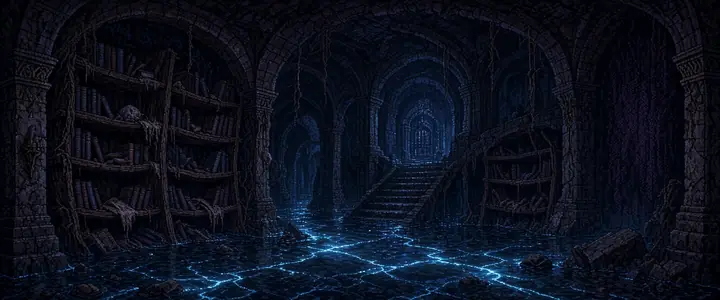
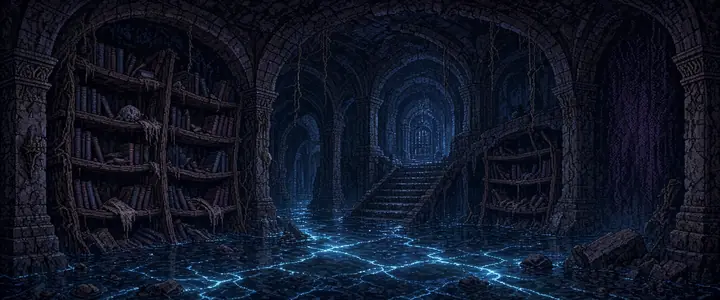
art: Tier 1 complete: Mistwood, Voidscar, Highlands, Glowlands, Silverwood Before, Steppe, Veil, Threshold (Grok Imagine)
17 more backdrops in the pixel style; Corridor and Archives lifted for darkness.
docs/ART.md: Silverwood Before lock variant, brightness rule, log rows.

Claude-Session: https://claude.ai/code/session_01G1ieR1Ws58B4uBMQBCqvG7

diff --git a/docs/ART.md b/docs/ART.md
@@ -89,6 +89,10 @@ the region light line for an interior one — *"Enclosed underground, deep <regi
 Also name crystals as "a faceted crystal monolith": "crystal heart" came back as a literal ♥ shape. (Learned on the Silverwood
 interiors, round q, 2026-10-25.)
 
+**Silverwood Before** uses the style lock with "stately and gothic" in place of "grim and gothic", so the whole, living city
+reads warmer than its ruined twin. **Very dark picks** are lifted on conversion: mean luminance under 15 → gamma 1.25, 15–22 →
+gamma 1.15 (logged per image), so they survive the game's edge darkening.
+
 ---
 
 ## 5. The shot list (77 prompts, in tiers)
@@ -295,8 +299,25 @@ Conversion note: Grok's pixel art is ~3 screen px per art pixel at 2128 wide, so
 | `loc_still_shore` | `scenes/loc_still_shore.webp` (+`@sm`) | p / D2 | 0 | Pixel lock. Midtones lifted (gamma 1.25). Faint far-shore spires (not in brief) kept: dim, read as distance. |
 | `title` | `title.webp` (+`@sm`) | p / T1 | 0 | Arch framing a violet rift, road leading in. |
 | `loc_crumbling_archway` | `scenes/loc_crumbling_archway.webp` (+`@sm`) | p / A1 | 0 | Keystone of carved faces, crystal trees both sides. |
-| `loc_darkened_corridor` | `scenes/loc_darkened_corridor.webp` (+`@sm`) | q / B4 | 0 | Interior reroll: round p painted sky into it. Fungal glow on the vaults. |
+| `loc_darkened_corridor` | `scenes/loc_darkened_corridor.webp` (+`@sm`) | q / B4 | 0 | Interior reroll: round p painted sky into it. Fungal glow on the vaults. Gamma 1.15. |
 | `loc_shattered_library` | `scenes/loc_shattered_library.webp` (+`@sm`) | p / C4 | 0 | Light shafts through the broken glass roof. |
 | `loc_silverwood_plaza` | `scenes/loc_silverwood_plaza.webp` (+`@sm`) | p / D3 | 0 | Misting fountains in a ring of colonnades. |
-| `loc_sunken_archives` | `scenes/loc_sunken_archives.webp` (+`@sm`) | q / E1 | 0 | Interior reroll. Stair into ley-lit water, soaked shelves. |
+| `loc_sunken_archives` | `scenes/loc_sunken_archives.webp` (+`@sm`) | q / E1 | 0 | Interior reroll. Stair into ley-lit water, soaked shelves. Gamma 1.15. |
 | `loc_heartstone_depths` | `scenes/loc_heartstone_depths.webp` (+`@sm`) | q / F1 | 0 | Interior reroll; round p drew a ♥. Crystal monolith on a dais, nine plinths. Base for the three state variants. |
+| `loc_mistwood_path` | `scenes/loc_mistwood_path.webp` (+`@sm`) | p / A4 | 0 | Ember-veined bark, path winding into fog. |
+| `loc_ironclad_camp` | `scenes/loc_ironclad_camp.webp` (+`@sm`) | p / B1 | 0 | Tents inside a stake barricade, forge glow, path through the gap. |
+| `loc_barren_peaks` | `scenes/loc_barren_peaks.webp` (+`@sm`) | p / C3 | 0 | Path zigzagging up the crags. Small ember-lit caves (accent) on the right. |
+| `loc_chasm_of_whispers` | `scenes/loc_chasm_of_whispers.webp` (+`@sm`) | p / D1 | 0 | Rope bridge over violet light rising from the rift. |
+| `loc_aetherium_spires` | `scenes/loc_aetherium_spires.webp` (+`@sm`) | p / E1 | 0 | Tallest spire centred, white light-trails across the basin. |
+| `loc_veridian_glowlands` | `scenes/loc_veridian_glowlands.webp` (+`@sm`) | p / F2 | 0 | Stone causeway through glowing fungi and swamp. |
+| `loc_chronos_nexus` | `scenes/loc_chronos_nexus.webp` (+`@sm`) | p / G3 | 0 | Shattered dome, cracked floor, sealed door on the right (east). Gamma 1.15. |
+| `loc_temporal_breach_apex` | `scenes/loc_temporal_breach_apex.webp` (+`@sm`) | p / H2 | 0 | Central wound of green light tearing the sky. |
+| `loc_silver_gate` | `scenes/loc_silver_gate.webp` (+`@sm`) | p / J1 | 0 | Twin of the Crumbling Archway. Chosen because its keystone has exactly nine faces (J2/J3 had 7–8); arch is squarer than the ruin's. |
+| `loc_grand_library` | `scenes/loc_grand_library.webp` (+`@sm`) | p / K2 | 0 | Twin of the Shattered Library: shelves, ladders, glass vault opening on the city. |
+| `loc_plaza_of_bells` | `scenes/loc_plaza_of_bells.webp` (+`@sm`) | p / L3 | 0 | Twin of Silverwood Plaza. Nine bells counted; fountain ring and colonnades. |
+| `loc_conflux_chamber` | `scenes/loc_conflux_chamber.webp` (+`@sm`) | p / M1 | 0 | Twin of the Heartstone Depths: same monolith-on-dais-with-plinths composition, golden. |
+| `loc_hearthring` | `scenes/loc_hearthring.webp` (+`@sm`) | p / N1 | 0 | Standing stones round a central fire, hide tents. |
+| `loc_sanctum_of_threads` | `scenes/loc_sanctum_of_threads.webp` (+`@sm`) | p / O3 | 0 | Hall of threads; dense detail needed WebP q50 to fit 160 kB (checked at 1:1, holds up). |
+| `loc_gallery_of_loops` | `scenes/loc_gallery_of_loops.webp` (+`@sm`) | p / Q1 | 0 | Colonnade with framed (abstract, figure-free) paintings, far light right of centre. Gamma 1.25. |
+| `loc_loom` | `scenes/loc_loom.webp` (+`@sm`) | p / R3 | 0 | Driftwood loom of light; the gallery's arches behind it. Gamma 1.25. |
+| `loc_far_light` | `scenes/loc_far_light.webp` (+`@sm`) | p / S2 | 0 | Bright door of light at the end of a path of water. Gamma 1.25. |
